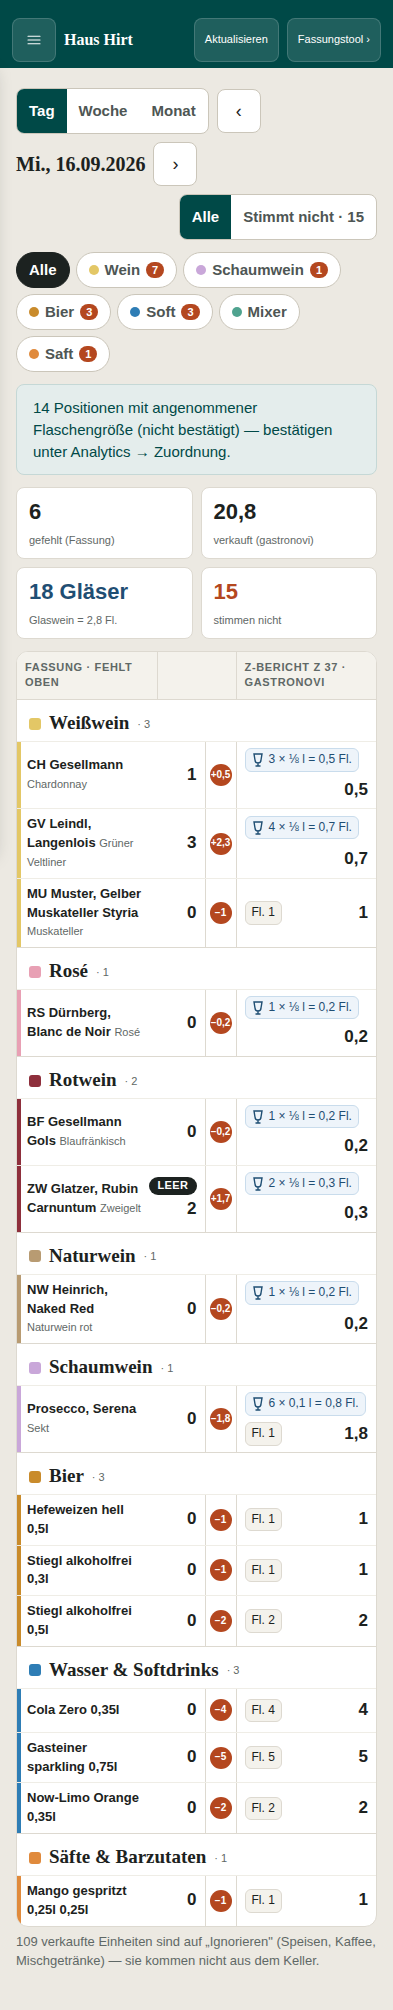
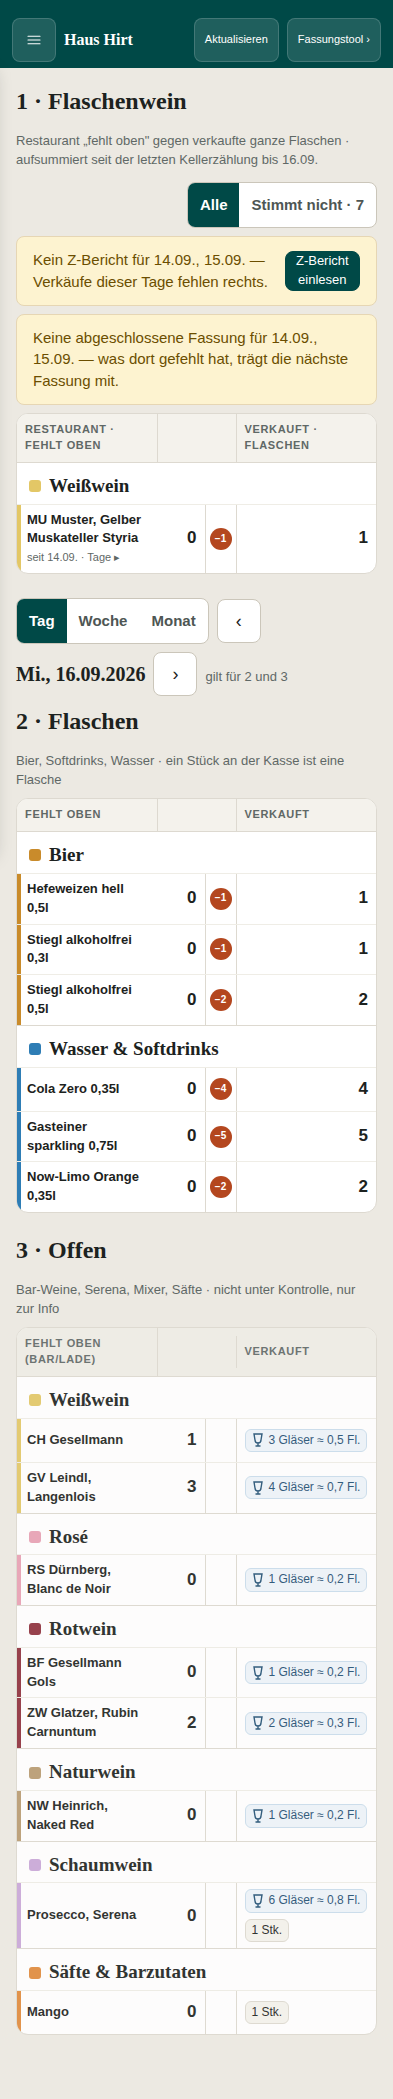
[software-engineer] Runde 24: Übersicht als drei getrennte Abgleiche (Flaschenwein, Flaschen, Offen)
Claude-Session: https://claude.ai/code/session_01XL68Bp63fcSJLfNTZNmuMH

diff --git a/public/leitung.html b/public/leitung.html
@@ -416,6 +416,13 @@ nav.seite button.ana{padding-left:var(--space-5)}
 .brow.zu .ql,.brow.zu .rt{border-color:transparent}
 .bzu{display:block;width:100%;padding:6px var(--space-4);text-align:left;color:var(--fg-muted);
   font-size:var(--text-xs);background:var(--surface-2);border-top:1px solid var(--surface-3)}
+.bblock{margin-bottom:var(--space-6)}
+.bbkopf{display:flex;flex-wrap:wrap;align-items:baseline;gap:var(--space-3);margin-bottom:var(--space-2)}
+.bbkopf h2{font-size:24px}.bbkopf .rechts{margin-left:auto}
+.bblock.info .btab{opacity:.9}.bblock.info .bhd{background:var(--surface-3)}
+.bspur{background:var(--surface-2);border-top:1px solid var(--surface-3);padding:4px var(--space-4) 8px var(--space-6);font-size:var(--text-xs)}
+.bspur div{display:grid;grid-template-columns:1.4fr 1fr 1fr 1fr;gap:8px;padding:3px 0;font-variant-numeric:tabular-nums}
+.bspur div.ab{color:var(--danger-fg);font-weight:var(--weight-medium)}
 .leertag{display:inline-block;border-radius:var(--radius-pill);background:var(--fg);color:var(--fg-on-dark);
   font-size:11px;font-weight:var(--weight-bold);padding:1px 8px;text-transform:uppercase;letter-spacing:.04em}
 .boffen{margin-top:var(--space-4)}
@@ -3282,78 +3289,151 @@ function blickZeile(z){
     '<div class="rt">'+rechts+'</div></div>';
 }
 
+/* ════════════ 7b · Runde 24 · Drei getrennte Abgleiche (Casimir, 30.09.2026) ════════════
+   „Das Wichtigste Weinflaschen, dann Softdrinks, dann alles, was offen ist."
+     1 · Flaschenwein: was im RESTAURANT gefehlt hat gegen die an der Kasse
+         verkauften GANZEN Flaschen (Ausschank ≥ 0,5 l). Im Restaurant wird
+         nur flaschenweise verkauft (Casimir) — damit muss nichts geraten
+         werden. Aufsummiert seit der letzten Kellerzählung je Wein, mit
+         einer Spur Tag für Tag: wo die Summe kippt, liegt der Fehler.
+     2 · Flaschen: Bier, Softdrinks, Wasser. Ein Stück an der Kasse ist eine
+         Flasche. Im gewählten Zeitraum.
+     3 · Offen: Bar-Weine (Glas), Serena und Sekt, Mixer, Säfte. Nicht unter
+         Kontrolle — die Zahlen stehen da, ohne Urteil.
+   Grundlage links sind die Rohfelder der Fassung (`roh.rest`, `roh.barrot`,
+   `roh.bar`, `roh.backup`), rechts dieselbe Zuordnung wie überall
+   (`zuordnung()`). */
+const OFFEN_WEIN=["serena"];                   /* Casimir: Serena in Block 3 */
+const istFlaschenPos = ml => ml!=null && ml>=500;
+function feld(v,k,id){ return +(((v.roh||{})[k]||{})[id])||0; }
+/* Verkauf je Artikel an EINEM Tag, getrennt nach Flasche und Glas. */
+function kasseTag(t){
+  const r={};
+  ((ZBER[t]||{}).positionen||[]).forEach(p=>{
+    if(REZ[p.name] && REZ[p.name].length) return;
+    const zu=zuordnung(p); if(!zu.id) return;
+    const ml=mlAusText(p.name), n=+p.anzahl||0;
+    const x=r[zu.id]||(r[zu.id]={fl:0, gl:0, glMl:0, stk:0, namen:[]});
+    x.stk+=n; if(!x.namen.includes(p.name)) x.namen.push(p.name);
+    if(byId(zu.id)){ if(istFlaschenPos(ml)) x.fl+=n; else { x.gl+=n; x.glMl+=n*(ml||125); } }
+  });
+  return r;
+}
+function block1(){
+  const B=bestand(), bis=letzterTag(), namen=gnNamen();
+  const erster=[...Object.keys(ZBER), ...gebucht().map(v=>v.tag)].filter(Boolean).sort()[0]||bis;
+  const cache={}; const kt=t=>cache[t]||(cache[t]=kasseTag(t));
+  const fassTage=new Set(gebucht().filter(v=>v.mode==="tag"||v.mode==="fuellen").map(v=>v.tag));
+  const zeilen=[], luecken={ohneZ:new Set(), ohneF:new Set()};
+  WINES.filter(w=>!OFFEN_WEIN.includes(w.id)).forEach(w=>{
+    const von=B.zaehltag&&B.zaehltag[w.id]||erster;
+    let L=0,R=0; const spur=[];
+    for(let t=von; t<=bis; t=tagMinus(t,-1)){
+      const l=gebucht().filter(v=>v.tag===t).reduce((a,v)=>a+feld(v,"rest",w.id),0);
+      const r=(kt(t)[w.id]||{}).fl||0;
+      if(!ZBER[t]) luecken.ohneZ.add(t); if(!fassTage.has(t)) luecken.ohneF.add(t);
+      L+=l; R+=r; if(l||r) spur.push({t,l,r,kum:L-R});
+    }
+    if(!L && !R) return;
+    zeilen.push({id:w.id, w, von, L, R, diff:L-R, spur, name:zeilenName(w.id,namen), gn:!!namen[w.id]});
+  });
+  zeilen.sort((a,b)=>ARTEN.findIndex(x=>x.id===artVon(a.id))-ARTEN.findIndex(x=>x.id===artVon(b.id)) ||
+    (a.w.grp||"").localeCompare(b.w.grp||"","de") || a.name.localeCompare(b.name,"de"));
+  return {zeilen, luecken, bis};
+}
+function block2(F){
+  const drin=t=>t>=F.von&&t<=F.bis, je={};
+  const z=id=>je[id]||(je[id]={id, L:0, R:0, namen:[]});
+  gebucht().filter(v=>drin(v.tag)).forEach(v=>Object.keys(v.verbraucht||{}).forEach(id=>{
+    if(byId(id)) return; const a=artVon(id); if(a==="bier"||a==="soft") z(id).L+=v.verbraucht[id]; }));
+  Object.keys(ZBER).filter(drin).forEach(t=>{ const k=kasseTag(t);
+    Object.keys(k).forEach(id=>{ if(byId(id)) return; const a=artVon(id); if(a!=="bier"&&a!=="soft") return;
+      z(id).R+=k[id].stk; k[id].namen.forEach(n=>{ if(!je[id].namen.includes(n)) je[id].namen.push(n); }); }); });
+  return Object.values(je).filter(x=>x.L||x.R).map(x=>({...x, diff:x.L-x.R}))
+    .sort((a,b)=>ARTEN.findIndex(q=>q.id===artVon(a.id))-ARTEN.findIndex(q=>q.id===artVon(b.id)) || GN(a.id).localeCompare(GN(b.id),"de"));
+}
+function block3(F){
+  const drin=t=>t>=F.von&&t<=F.bis, je={};
+  const z=id=>je[id]||(je[id]={id, L:0, gl:0, glFl:0, stk:0});
+  gebucht().filter(v=>drin(v.tag)).forEach(v=>{
+    WINES.forEach(w=>{ const n=feld(v,"barrot",w.id)+feld(v,"bar",w.id)+feld(v,"backup",w.id)+
+      (OFFEN_WEIN.includes(w.id)?feld(v,"rest",w.id):0); if(n) z(w.id).L+=n; });
+    Object.keys(v.verbraucht||{}).forEach(id=>{ if(byId(id)) return; const a=artVon(id);
+      if(a==="mixer"||a==="saft") z(id).L+=v.verbraucht[id]; });
+  });
+  Object.keys(ZBER).filter(drin).forEach(t=>{ const k=kasseTag(t);
+    Object.keys(k).forEach(id=>{ const x=k[id];
+      if(byId(id)){ if(x.gl){ const q=z(id); q.gl+=x.gl; q.glFl+=x.glMl/750; }
+        if(OFFEN_WEIN.includes(id)&&x.fl) z(id).stk+=x.fl; }
+      else { const a=artVon(id); if(a==="mixer"||a==="saft") z(id).stk+=x.stk; } }); });
+  return Object.values(je).filter(x=>x.L||x.gl||x.stk)
+    .sort((a,b)=>ARTEN.findIndex(q=>q.id===artVon(a.id))-ARTEN.findIndex(q=>q.id===artVon(b.id)) || artName(a.id).localeCompare(artName(b.id),"de"));
+}
+const pkt = d => Math.abs(d)<0.05 ? '<span class="dot ok" title="stimmt">✓</span>' : '<span class="dot no" title="weicht ab">'+fmtD(d)+'</span>';
 function vBlick(m){
   if(!UEB.ende) UEB.ende=letzterTag();
+  UEB.spur=UEB.spur||{};
   const F=fenster(UEB.art, UEB.ende);
-  const G=gegenueber(F);
-  const passt = z => UEB.filter==="alle" || artInfo(z.art).f===UEB.filter;
-  const sicht=G.zeilen.filter(passt);
-  const nicht = z => z.status!=="ok";
-  const abw={}; G.zeilen.filter(nicht).forEach(z=>{ const f=artInfo(z.art).f; abw[f]=(abw[f]||0)+1; });
-  const nNicht=sicht.filter(nicht).length;
-  const gl=sicht.reduce((a,z)=>a+z.gl,0), glFl=sicht.reduce((a,z)=>a+z.glFl,0);
-  const glOhne=sicht.some(z=>z.pos.some(p=>p.glas && p.fl==null));
+  const b1=block1(), b2=block2(F), b3=block3(F);
+  const n1=b1.zeilen.filter(z=>Math.abs(z.diff)>=0.05).length, n2=b2.filter(z=>Math.abs(z.diff)>=0.05).length;
+  const namen=gnNamen();
+  let h='';
+  /* ── 1 · Flaschenwein ── */
+  h+='<div class="bblock"><div class="bbkopf"><h2>1 · Flaschenwein</h2><span class="unter">Restaurant „fehlt oben" gegen verkaufte ganze Flaschen · aufsummiert seit der letzten Kellerzählung bis '+esc(kurzTag(b1.bis))+'</span>'+
+     '<div class="seg rechts" role="group"><button type="button" data-nur="0" class="'+(UEB.nur?'':'on')+'">Alle</button><button type="button" data-nur="1" class="'+(UEB.nur?'on':'')+'">Stimmt nicht · '+(n1+n2)+'</button></div></div>';
+  const lz=[...b1.luecken.ohneZ].sort().slice(-7), lf=[...b1.luecken.ohneF].sort().slice(-7);
+  if(lz.length) h+='<div class="hinweis warn bhw"><span>Kein Z-Bericht für '+lz.map(kurzTag).join(", ")+' — Verkäufe dieser Tage fehlen rechts.</span><button type="button" class="b klein stark" data-geh="import">Z-Bericht einlesen</button></div>';
+  if(lf.length) h+='<div class="hinweis warn bhw"><span>Keine abgeschlossene Fassung für '+lf.map(kurzTag).join(", ")+' — was dort gefehlt hat, trägt die nächste Fassung mit.</span></div>';
+  h+='<div class="btab"><div class="bhd"><div class="l">Restaurant · fehlt oben</div><div></div><div></div><div class="r">verkauft · Flaschen</div></div>';
+  let zeig1=b1.zeilen.filter(z=>!UEB.nur||Math.abs(z.diff)>=0.05);
+  if(!zeig1.length) h+='<div class="leer">'+(b1.zeilen.length?'Alle Flaschenweine stimmen.':'Seit der Zählung nichts zu vergleichen.')+'</div>';
+  let letzte=null;
+  zeig1.forEach(z=>{ const a=artVon(z.id), A=artInfo(a);
+    if(a!==letzte){ letzte=a; h+='<div class="bgrp k'+A.k+'"><i></i>'+esc(A.t)+'</div>'; }
+    h+='<button type="button" class="brow k'+A.k+'" data-spur="'+esc(z.id)+'"><div class="nm"><span class="'+(z.gn?'':'stammn')+'">'+esc(z.name)+'</span> <span class="m">seit '+esc(kurzTag(z.von))+' · Tage '+(UEB.spur[z.id]?'▾':'▸')+'</span></div>'+
+       '<div class="ql"><b>'+num(z.L)+'</b></div><div class="mid">'+pkt(z.diff)+'</div><div class="rt"><span class="sum">'+num(z.R)+'</span></div></button>';
+    if(UEB.spur[z.id]) h+='<div class="bspur">'+z.spur.map(s=>'<div class="'+(Math.abs(s.l-s.r)>=0.05?'ab':'')+'"><span>'+esc(deTag(s.t))+'</span><span>fehlt '+num(s.l)+'</span><span>verkauft '+num(s.r)+'</span><span>Summe '+fmtD(s.kum)+'</span></div>').join("")+'</div>';
+  });
+  h+='</div></div>';
 
-  let h='<div class="bzeit">'+
+  /* ── Zeitraum für Block 2 und 3 ── */
+  h+='<div class="bzeit" style="margin-top:var(--space-6)">'+
     '<div class="seg" role="group" aria-label="Zeitraum">'+
       ["tag","woche","monat"].map(a=>'<button type="button" data-art="'+a+'" class="'+(UEB.art===a?'on':'')+'" aria-pressed="'+(UEB.art===a)+'">'+
         {tag:"Tag",woche:"Woche",monat:"Monat"}[a]+'</button>').join("")+'</div>'+
     '<button type="button" class="pf" id="bZur" aria-label="früher">‹</button>'+
     '<span class="bdatum">'+esc(fensterTitel(UEB.art,F))+'</span>'+
-    '<button type="button" class="pf" id="bVor" aria-label="später">›</button>'+
-    '<div class="seg rechts" role="group" aria-label="Auswahl">'+
-      '<button type="button" data-nur="0" class="'+(UEB.nur?'':'on')+'">Alle</button>'+
-      '<button type="button" data-nur="1" class="'+(UEB.nur?'on':'')+'">Stimmt nicht · '+nNicht+'</button></div></div>';
+    '<button type="button" class="pf" id="bVor" aria-label="später">›</button><span class="unter">gilt für 2 und 3</span></div>';
 
-  h+='<div class="bchips">'+FILTER.map(f=>'<button type="button" class="bchip'+(f.k?' k'+f.k:'')+(UEB.filter===f.id?' on':'')+'" data-f="'+f.id+'">'+
-      (f.k?'<i></i>':'')+esc(f.t)+(f.id!=="alle"&&abw[f.id]?'<sup>'+abw[f.id]+'</sup>':'')+'</button>').join("")+'</div>';
+  /* ── 2 · Flaschen ── */
+  h+='<div class="bblock"><div class="bbkopf"><h2>2 · Flaschen</h2><span class="unter">Bier, Softdrinks, Wasser · ein Stück an der Kasse ist eine Flasche</span></div>';
+  h+='<div class="btab"><div class="bhd"><div class="l">fehlt oben</div><div></div><div></div><div class="r">verkauft</div></div>';
+  const zeig2=b2.filter(z=>!UEB.nur||Math.abs(z.diff)>=0.05);
+  if(!zeig2.length) h+='<div class="leer">'+(b2.length?'Alle Flaschen stimmen.':'Nichts im Zeitraum.')+'</div>';
+  letzte=null;
+  zeig2.forEach(z=>{ const a=artVon(z.id), A=artInfo(a);
+    if(a!==letzte){ letzte=a; h+='<div class="bgrp k'+A.k+'"><i></i>'+esc(A.t)+'</div>'; }
+    h+='<div class="brow k'+A.k+'"><div class="nm">'+esc(z.namen[0]||GN(z.id))+(z.namen.length>1?' <span class="m">+ '+esc(z.namen.slice(1).join(", "))+'</span>':'')+'</div>'+
+       '<div class="ql"><b>'+num(z.L)+'</b></div><div class="mid">'+pkt(z.diff)+'</div><div class="rt"><span class="sum">'+num(z.R)+'</span></div></div>'; });
+  h+='</div></div>';
 
-  /* Hinweise: nur Tatsachen, jede mit dem Weg zur Abhilfe. */
-  const hw=[];
-  if(!G.berichte.length) hw.push(['warn','Für diesen Zeitraum ist kein Z-Bericht eingelesen — rechts steht deshalb nichts.','Z-Bericht einlesen','import']);
-  else if(G.ohneZ.length) hw.push(['warn','Z-Bericht fehlt für '+G.ohneZ.map(kurzTag).join(", ")+' — dort gibt es eine Fassung, aber keinen Verkauf.','Z-Bericht einlesen','import']);
-  if(G.ohneFassung.length) hw.push(['warn','Keine Fassung für '+G.ohneFassung.map(kurzTag).join(", ")+' — der Verkauf dieser Tage hat links kein Gegenüber.',null,null]);
-  if(G.laufend) hw.push(['warn',G.laufend+(G.laufend===1?' Vorgang läuft':' Vorgänge laufen')+' noch — was dort steht, zählt erst nach dem Abschluss.',null,null]);
-  if(G.offen.length) hw.push(['warn',G.offen.length+' Kassenname'+(G.offen.length===1?'':'n')+' ohne Zuordnung — stehen unten, zählen nirgends mit.','Zuordnen','zuordnung']);
-  const nAnn=sicht.filter(z=>z.ann).length;
-  if(nAnn) hw.push(['info',nAnn+' Position'+(nAnn===1?'':'en')+' mit angenommener Flaschengröße (nicht bestätigt) — bestätigen unter Analytics → Zuordnung.',null,null]);
-  h+=hw.map((x,i)=>'<div class="hinweis '+x[0]+' bhw"><span>'+esc(x[1])+'</span>'+(x[2]?'<button type="button" class="b klein stark" data-geh="'+x[3]+'">'+esc(x[2])+'</button>':'')+'</div>').join("");
-
-  const sL=sicht.reduce((a,z)=>a+z.links,0), sR=sicht.reduce((a,z)=>a+z.rechts,0);
-  h+='<div class="bkpi"><div><b>'+num(sL)+'</b><span>gefehlt (Fassung)</span></div>'+
-     '<div><b>'+(G.berichte.length?num(sR):'–')+'</b><span>verkauft (gastronovi)</span></div>'+
-     '<div class="glk"><b>'+gl+' Gläser</b><span>'+(gl?(glOhne?'Glaswein · Flaschengröße teils offen':'Glaswein = '+num(glFl)+' Fl.'):'kein Glaswein')+'</span></div>'+
-     '<div class="'+(nNicht?'rot':'')+'"><b>'+nNicht+'</b><span>stimmen nicht</span></div></div>';
-
-  h+='<div class="btab"><div class="bhd"><div class="l">Fassung · fehlt oben</div><div></div><div></div>'+
-     '<div class="r">Z-Bericht'+(G.berichte.length===1?' '+esc(ZBER[G.berichte[0]].nr||''):G.berichte.length?' · '+G.berichte.length+' Berichte':'')+' · gastronovi</div></div>';
-  if(!sicht.length) h+='<div class="leer">Für diesen Zeitraum gibt es nichts zu vergleichen.</div>';
-  ARTEN.forEach(A=>{
-    const zs=sicht.filter(z=>z.art===A.id); if(!zs.length) return;
-    const ok=zs.filter(z=>z.status==="ok"), rest=zs.filter(z=>z.status!=="ok");
-    if(UEB.nur && !rest.length) return;
-    h+='<div class="bgrp k'+A.k+'"><i></i>'+esc(A.t)+' <small>· '+zs.length+'</small></div>';
-    rest.forEach(z=>h+=blickZeile(z));
-    if(UEB.nur || !ok.length) return;
-    if(UEB.auf[A.id]){ ok.forEach(z=>h+=blickZeile(z));
-      h+='<button type="button" class="bzu k'+A.k+'" data-auf="'+A.id+'">zuklappen</button>'; }
-    else h+='<button type="button" class="brow zu k'+A.k+'" data-auf="'+A.id+'"><div class="nm">✓ '+
-      (rest.length?ok.length+' weitere stimmen':'alle '+ok.length+' stimmen')+' · aufklappen</div>'+
-      '<div class="ql"><b>'+num(ok.reduce((a,z)=>a+z.links,0))+'</b></div><div class="mid"></div>'+
-      '<div class="rt"><span class="sum">'+num(ok.reduce((a,z)=>a+z.rechts,0))+'</span></div></button>';
-  });
-  h+='</div>';
-
-  if(G.offen.length) h+='<div class="karte boffen"><h3>Noch offen</h3><p class="unter">Kassennamen ohne Artikel. Sie fließen in keine Zahl ein, bis sie zugeordnet sind.</p>'+
-    G.offen.sort((a,b)=>b.anzahl-a.anzahl).map(o=>'<div class="bo"><span>'+esc(o.name)+'</span><b>'+num(o.anzahl)+'</b></div>').join("")+
-    '<button type="button" class="b klein stark" data-geh="zuordnung">Zuordnen</button></div>';
-  if(G.ignoriert.length) h+='<p class="unter bign">'+G.ignoriert.reduce((a,o)=>a+o.anzahl,0)+' verkaufte Einheiten sind auf „Ignorieren" (Speisen, Kaffee, Mischgetränke) — sie kommen nicht aus dem Keller.</p>';
-
+  /* ── 3 · Offen ── */
+  if(!UEB.nur){
+    h+='<div class="bblock info"><div class="bbkopf"><h2>3 · Offen</h2><span class="unter">Bar-Weine, Serena, Mixer, Säfte · nicht unter Kontrolle, nur zur Info</span></div>';
+    h+='<div class="btab"><div class="bhd"><div class="l">fehlt oben (Bar/Lade)</div><div></div><div></div><div class="r">verkauft</div></div>';
+    if(!b3.length) h+='<div class="leer">Nichts im Zeitraum.</div>';
+    letzte=null;
+    b3.forEach(z=>{ const a=artVon(z.id), A=artInfo(a);
+      if(a!==letzte){ letzte=a; h+='<div class="bgrp k'+A.k+'"><i></i>'+esc(A.t)+'</div>'; }
+      const r=[z.gl?'<span class="bs gl">'+GLAS_SVG+z.gl+' Gläser ≈ '+num(z.glFl)+' Fl.</span>':'', z.stk?'<span class="bs">'+num(z.stk)+' Stk.</span>':''].join("");
+      h+='<div class="brow k'+A.k+'"><div class="nm">'+esc(namen[z.id]&&byId(z.id)?zeilenName(z.id,namen):artName(z.id))+'</div>'+
+         '<div class="ql"><b>'+num(z.L)+'</b></div><div class="mid"></div><div class="rt">'+(r||'<span class="klein">nichts verkauft</span>')+'</div></div>'; });
+    h+='</div></div>';
+  }
   m.innerHTML=h;
   m.querySelectorAll("[data-art]").forEach(b=>b.onclick=()=>{ UEB.art=b.dataset.art; merkeUeb(); zeichne(); });
   m.querySelectorAll("[data-nur]").forEach(b=>b.onclick=()=>{ UEB.nur=b.dataset.nur==="1"; zeichne(); });
-  m.querySelectorAll("[data-f]").forEach(b=>b.onclick=()=>{ UEB.filter=b.dataset.f; merkeUeb(); zeichne(); });
-  m.querySelectorAll("[data-auf]").forEach(b=>b.onclick=()=>{ UEB.auf[b.dataset.auf]=!UEB.auf[b.dataset.auf]; zeichne(); });
+  m.querySelectorAll("[data-spur]").forEach(b=>b.onclick=()=>{ UEB.spur[b.dataset.spur]=!UEB.spur[b.dataset.spur]; zeichne(); });
   m.querySelectorAll("[data-geh]").forEach(b=>b.onclick=()=>{ SEITE=b.dataset.geh; ANA_OFFEN=true; zeichne(); window.scrollTo(0,0); });
   $("#bZur").onclick=()=>{ UEB.ende=blaettern(UEB.art,F.von,-1); zeichne(); };
   $("#bVor").onclick=()=>{ UEB.ende=blaettern(UEB.art,F.von,1); zeichne(); };

diff --git a/public/sw.js b/public/sw.js
@@ -21,7 +21,7 @@
    Sonst behält das iPhone hartnäckig den alten Stand.
    ════════════════════════════════════════════════════════════════════ */
 
-const VERSION = "v78";
+const VERSION = "v79";
 const SPEICHER = "hh-fassung-" + VERSION;
 
 /* Was im Keller verfügbar sein muss. Die Schriften stehen mit drin,

diff --git a/STAND.md b/STAND.md
@@ -27,6 +27,11 @@ Tiefe Details: `PROJEKTANLEITUNG-Fassungstool.md`, `UEBERGABE-TECHNISCH.md`.
 - Befund: Fassung `tag_2026-09-28` ist leer und offen (Casimir löscht sie); `tag_2026-09-29`
   deckt 28.+29. ab → nur die Wochenansicht vergleicht richtig.
 - PR: Wein ohne Menge im Kassennamen zählt in der Übersicht als ⅛-Glas, markiert „angenommen".
+- **Übersicht = drei Abgleiche** (Casimir, 30.09.): 1 Flaschenwein (Restaurant `rest` gegen
+  verkaufte ganze Flaschen ≥ 0,5 l, aufsummiert seit Kellerzählung je Wein, Tagesspur),
+  2 Flaschen (Bier/Soft/Wasser, Stück = Flasche, Zeitraum), 3 Offen (Bar-Wein, Serena,
+  Mixer, Säfte — nur Info). Live-Befund: Nittnaus 17, Gesellmann Gols 12, Glatzer 8,
+  Leindl 6 fehlten im Restaurant ohne verkaufte Flasche; Z 42–48 fehlen noch.
 
 ## Runde 24 (30.09.2026) — Backoffice neu geordnet, „leer" in der App
 
